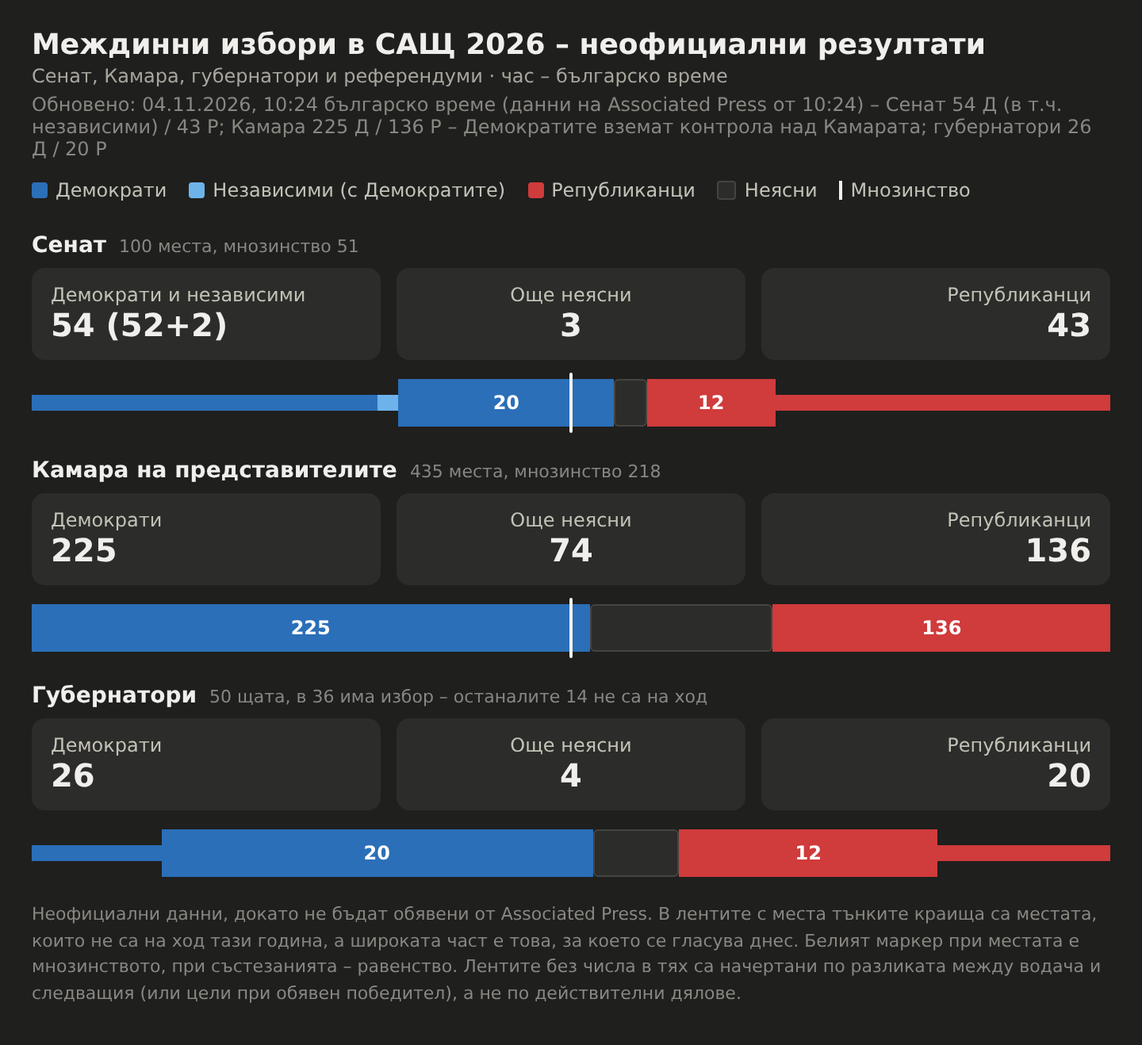
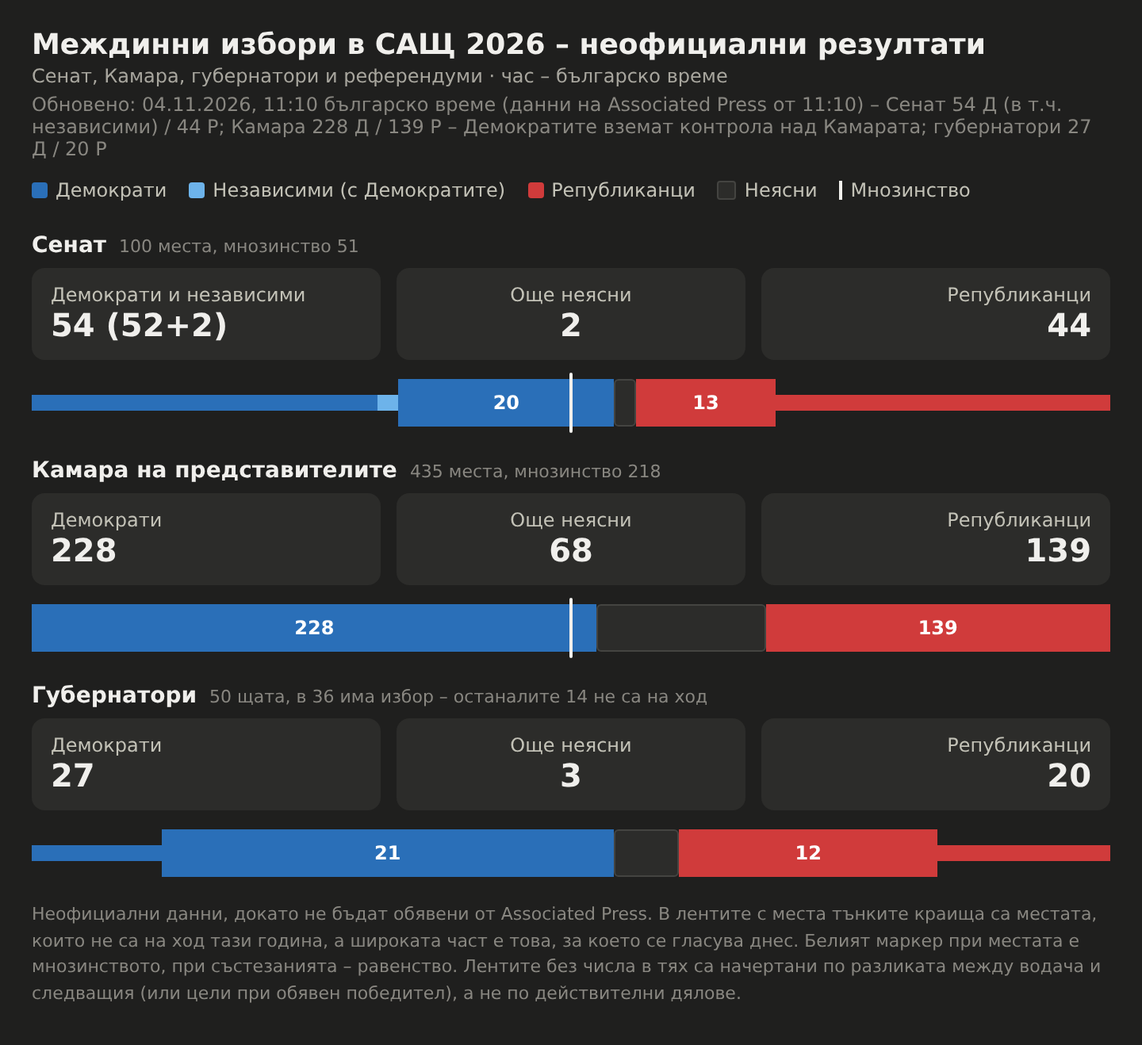
Обновяване 11:10 българско време: Сенат 54–44, Камара 228–139, губернатори 27–20
Claude-Session: https://claude.ai/code/session_013Bd4dyDeBGD9vdxVJ9tN9V

diff --git a/us-midterms-2026.11.03.html b/us-midterms-2026.11.03.html
@@ -53,13 +53,13 @@ h1{font-size:18px;font-weight:600;margin:0 0 2px}
 .empty{font-size:13px;color:var(--text-muted);padding:10px 0}
 .foot{font-size:11px;color:var(--text-muted);margin-top:16px;line-height:1.5}
 </style></head><body><div class="wrap">
-<h1>Междинни избори в САЩ 2026 – неофициални резултати</h1><div class="sub">Сенат, Камара, губернатори и референдуми · час – българско време</div><div class="upd">Обновено: 04.11.2026, 10:24 българско време (данни на Associated Press от 10:24) – Сенат 54 Д (в т.ч. независими) / 43 Р; Камара 225 Д / 136 Р – Демократите вземат контрола над Камарата; губернатори 26 Д / 20 Р</div>
+<h1>Междинни избори в САЩ 2026 – неофициални резултати</h1><div class="sub">Сенат, Камара, губернатори и референдуми · час – българско време</div><div class="upd">Обновено: 04.11.2026, 11:10 българско време (данни на Associated Press от 11:10) – Сенат 54 Д (в т.ч. независими) / 44 Р; Камара 228 Д / 139 Р – Демократите вземат контрола над Камарата; губернатори 27 Д / 20 Р</div>
 <div class="tabs" id="tabs"></div>
 <div id="view"></div>
 <div class="foot">Неофициални данни, докато не бъдат обявени от Associated Press. В лентите с места тънките краища са местата, които не са на ход тази година, а широката част е това, за което се гласува днес. Белият маркер при местата е мнозинството, при състезанията – равенство. Лентите без числа в тях са начертани по разликата между водача и следващия (или цели при обявен победител), а не по действителни дялове. Щракни на ред, за да видиш как се е променял или кои са окръзите на щата.</div>
 </div>
 <script>
-var DATA={"title": "Междинни избори в САЩ 2026 – неофициални резултати", "sub": "Сенат, Камара, губернатори и референдуми · час – българско време", "updated": "04.11.2026, 10:24 българско време (данни на Associated Press от 10:24) – Сенат 54 Д (в т.ч. независими) / 43 Р; Камара 225 Д / 136 Р – Демократите вземат контрола над Камарата; губернатори 26 Д / 20 Р", "times": ["01:30", "02:00", "02:15", "02:30", "03:30", "03:45", "04:05", "04:15", "04:20", "04:27", "05:03", "05:34", "06:08", "06:13", "06:25", "06:42", "07:08", "07:49", "08:10", "09:14", "10:24"], "chambers": {"sen": {"tot": 100, "mj": 51, "d": [32, 32, 33, 33, 41, 41, 43, 43, 43, 43, 43, 43, 46, 47, 48, 49, 50, 50, 51, 51, 52], "i": [2, 2, 2, 2, 2, 2, 2, 2, 2, 2, 2, 2, 2, 2, 2, 2, 2, 2, 2, 2, 2], "r": [31, 31, 31, 31, 31, 32, 34, 34, 35, 35, 36, 36, 37, 37, 38, 39, 40, 41, 41, 42, 43], "base": {"d": 32, "i": 2, "r": 31}}, "hou": {"tot": 435, "mj": 218, "d": [0, 0, 3, 6, 36, 44, 60, 71, 73, 79, 102, 120, 144, 145, 152, 161, 190, 204, 210, 224, 225], "i": [0, 0, 0, 0, 0, 0, 0, 0, 0, 0, 0, 0, 0, 0, 0, 0, 0, 0, 0, 0, 0], "r": [0, 0, 1, 2, 16, 21, 29, 31, 35, 41, 58, 67, 88, 92, 95, 100, 110, 123, 126, 133, 136], "base": {"d": 0, "i": 0, "r": 0}}, "gov": {"tot": 50, "d": [6, 6, 6, 6, 11, 11, 13, 13, 14, 15, 15, 15, 18, 19, 20, 22, 24, 24, 24, 25, 26], "i": [], "r": [8, 8, 8, 8, 8, 8, 9, 10, 10, 10, 10, 10, 11, 11, 11, 11, 13, 18, 18, 19, 20], "base": {"d": 6, "i": 0, "r": 8}}}, "senate": [["Върджиния", 100, 0, null, "<b>Обявен:</b> Демократи (Уорнър)", 1, [], 1], ["Северна Каролина", 100, 0, null, "<b>Обявен:</b> Демократи (Купър; място, което сега е на Републиканците)", 1, [], 1], ["Ню Хемпшър", 100, 0, null, "<b>Обявен:</b> Демократи (Папас)", 1, [], 1], ["Флорида", 0, 100, null, "<b>Обявена:</b> Републиканци (Муди, специален избор)", 1, [], 1], ["Кентъки", 0, 100, null, "<b>Обявен:</b> Републиканци (Бар)", 1, [], 1], ["Колорадо", 100, 0, null, "<b>Обявен:</b> Демократи (Хикенлупър)", 1, [], 1], ["Ню Мексико", 100, 0, null, "<b>Обявен:</b> Демократи (Лухан)", 1, [], 1], ["Уайоминг", 0, 100, null, "<b>Обявена:</b> Републиканци (Хагеман)", 1, [], 1], ["Джорджия", 100, 0, null, "<b>Обявен:</b> Демократи (Ософ; запазва мястото си, Колинс (Р) призна поражението)", 1, []], ["Южна Каролина", 100, 0, null, "<b>Обявена:</b> Демократи (Андрюс; място, което сега е на Републиканците)", 1, [], 1], ["Охайо", 100, 0, null, "<b>Обявен:</b> Демократи (Браун, специален избор; място, което сега е на Републиканците)", 1, [], 1], ["Тексас", 100, 0, null, "<b>Обявен:</b> Демократи (Таларико; място, което сега е на Републиканците)", 1, [], 1], ["Канзас", 100, 0, null, "<b>Обявен:</b> Демократи (Хамилтън; място, което сега е на Републиканците)", 1, [], 1], ["Мичиган", 100, 0, null, "<b>Обявен:</b> Демократи (Ел-Саид; запазва демократичното място)", 1, [], 1], ["Мейн", 100, 0, null, "<b>Обявен:</b> Демократи (Джаксън; място, което сега е на Републиканците – Колинс)", 1, [], 1], ["Айова", 100, 0, null, "<b>Обявен:</b> Демократи (Турек; място, което сега е на Републиканците) – с него Демократите вземат контрола над Сената", 1, [], 1], ["Орегон", 100, 0, null, "<b>Обявен:</b> Демократи (Мъркли)", 1, [], 1], ["Алабама", 0, 100, null, "<b>Обявена:</b> Републиканци (Мур)", 1, [], 1], ["Тенеси", 0, 100, null, "<b>Обявен:</b> Републиканци (Хагърти)", 1, [], 1], ["Минесота", 100, 0, null, "<b>Обявена:</b> Демократи (Фланаган)", 1, [], 1], ["Южна Дакота", 0, 100, null, "<b>Обявена:</b> Републиканци (Раундс)", 1, [], 1], ["Аляска", 49.4, 50.6, 66, "Води: Републиканци (Съливан, +1,2 пункта) – водачът се смени, Пелтола (Д) води на по-ранен етап", 0, [], 1], ["Айдахо", 0, 100, null, "<b>Обявен:</b> Републиканци (Риш)", 1, [], 1], ["Монтана", 0, 100, null, "<b>Обявен:</b> Републиканци (Алми)", 1, [], 1]], "gov": [["Роуд Айлънд", 100, 0, null, "<b>Обявена:</b> Демократи (Фулкс)", 1, [], 1], ["Колорадо", 100, 0, null, "<b>Обявен:</b> Демократи (Уайзър)", 1, [], 1], ["Ню Йорк", 100, 0, null, "<b>Обявена:</b> Демократи (Хокъл)", 1, [], 1], ["Уайоминг", 0, 100, null, "<b>Обявен:</b> Републиканци (Барлоу)", 1, [], 1], ["Флорида", 0, 100, null, "<b>Обявен:</b> Републиканци (Доналдс)", 1, [], 1], ["Кънектикът", 100, 0, null, "<b>Обявен:</b> Демократи (Ламонт)", 1, [], 1], ["Джорджия", 100, 0, null, "<b>Обявена:</b> Демократи (Ботъмс; място, което сега е на Републиканците)", 1, [], 1], ["Калифорния", 100, 0, null, "<b>Обявен:</b> Демократи (Бесера)", 1, [], 1], ["Айова", 100, 0, null, "<b>Обявен:</b> Демократи (Санд; място, което сега е на Републиканците)", 1, [], 1], ["Тексас", 100, 0, null, "<b>Обявена:</b> Демократи (Инохоса; място, което сега е на Републиканците)", 1, [], 1], ["Мейн", 100, 0, null, "<b>Обявена:</b> Демократи (Хана Пингри)", 1, [], 1], ["Уисконсин", 100, 0, null, "<b>Обявен:</b> Демократи (Краули)", 1, [], 1], ["Минесота", 100, 0, null, "<b>Обявен:</b> Демократи (Клобучар)", 1, [], 1], ["Хаваи", 100, 0, null, "<b>Обявен:</b> Демократи (Грийн)", 1, [], 1], ["Охайо", 100, 0, null, "<b>Обявен:</b> Демократи (смяна от Републиканци – по данни на Associated Press, видяно от потребителя; името на победителя не е проверено)", 1, [], 1], ["Тенеси", 0, 100, null, "<b>Обявен:</b> Републиканци (Блекбърн)", 1, [], 1], ["Ню Хемпшър", 0, 100, null, "<b>Обявен:</b> Републиканци (Айът)", 1, [], 1], ["Айдахо", 0, 100, null, "<b>Обявен:</b> Републиканци (Литъл)", 1, [], 1], ["Южна Каролина", 0, 100, null, "<b>Обявен:</b> Републиканци (Уилсън)", 1, [], 1], ["Върмонт", 0, 100, null, "<b>Обявен:</b> Републиканци (Скот)", 1, [], 1], ["Мичиган", 100, 0, null, "<b>Обявена:</b> Демократи (Бенсън)", 1, [], 1], ["Алабама", 0, 100, null, "<b>Обявен:</b> Републиканци (Тъбървил)", 1, [], 1], ["Аризона", 100, 0, null, "<b>Обявена:</b> Демократи (Хобс)", 1, [], 1], ["Небраска", 0, 100, null, "<b>Обявен:</b> Републиканци (Пилън)", 1, [], 1]], "housecontested": [["Вирджиния 1", 49.5, 50.2, 80, "Води: Републиканци", 0, []], ["Флорида 7", 49.1, 49.8, 98, "Води: Републиканци", 0, []], ["Флорида 9", 50.2, 49.8, 99, "Води: Демократи", 0, []], ["Флорида 13", 48.6, 49.5, 99, "Води: Републиканци", 0, []], ["Флорида 27", 49.8, 50.2, 95, "Води: Републиканци", 0, []], ["Вирджиния 5", 49.5, 48.8, 71, "Води: Демократи", 0, []], ["Северна Каролина 9", 51, 49, 89, "Води: Демократи", 0, []], ["Индиана 5", 52, 48, 88, "Води: Демократи", 0, []], ["Флорида 22", 52, 48, 99, "Води: Демократи", 0, []], ["Кентъки 6", 53, 43, 74, "Води: Демократи", 0, []], ["Мичиган 10", 51, 47, 11, "Води: Демократи", 0, []], ["Айова 2", 47.8, 48.7, 1, "Води: Републиканци", 0, []], ["Охайо 7", 59, 41, 43, "Води: Демократи", 0, []], ["Пенсилвания 1", 66, 34, 28, "Води: Демократи", 0, []], ["Тексас 35", 66, 34, 44, "Води: Демократи", 0, []], ["Ню Йорк 17", 57, 43, 2, "Води: Демократи", 0, []], ["Алабама 2", 38, 62, 8, "Води: Републиканци", 0, []], ["Мичиган 4", 27, 71, 1, "Води: Републиканци", 0, []]], "housestates": [], "measures": [["Мисури – Поправка 3 (аборти)", 43.7, 56.3, 73.2, "Води: Против", 0, [], 0, "Предложена поправка в конституцията на Мисури. Тя отменя правото на аборт до жизнеспособността на плода и позволява аборт само при медицинска спешност, аномалия на плода, или при изнасилване или кръвосмешение до 12-ата седмица от бременността. Забранява и лечения и операции за смяна на пола при непълнолетни."], ["Върджиния – Въпрос 1 (репродуктивни права)", 61.4, 38.6, 85.5, "Води: За", 0, [], 0, "Предложена поправка в конституцията на Върджиния. Тя създава репродуктивни права, включително право на аборт, на контрацепция и на грижи за плодовитостта. Абортът може да се регулира през третия триместър, но трябва да бъде разрешен, за да се защити животът или здравето на бременната жена или когато плодът не е жизнеспособен."], ["Върджиния – Въпрос 2 (брак)", 56.2, 43.8, 69.8, "Води: За", 0, [], 0, "Предложена поправка в конституцията на Върджиния. Тя отменя ограничението бракът да е само между мъж и жена и вместо това заявява, че на двама възрастни не може да се отказва брак заради пол, полова идентичност или раса."], ["Върджиния – Въпрос 3 (право на глас)", 55.4, 44.6, 85.7, "Води: За", 0, [], 0, "Предложена поправка в конституцията на Върджиния. Тя създава основно право да се гласува и възстановява отнетите избирателни права на осъдени за тежки престъпления, след като бъдат освободени от затвора."], ["Мисури – Предложение A (нови окръзи за Камарата)", 37.6, 62.4, 71.7, "Води: Против", 0, [], 0, "Референдум, в който гласоподавателите в Мисури решават дали да се приемат новите окръзи за Камарата на представителите на САЩ, приети от законодателите на щата през 2025 г."], ["Мериленд – Въпрос 3 (окръзи за Конгреса)", 60.0, 40.0, 62, "Води: За", 0, [], 0, "Предложена поправка в конституцията на Мериленд. Тя премахва ограниченията при прекрояването на окръзите за Конгреса. Изискването окръзите да са компактни и да уважават „природните граници“ ще важи само за окръзите на законодателния орган на щата, а не за окръзите за Конгреса."], ["Охайо – Въпрос 3 (документ със снимка)", 66.0, 34.0, 79.8, "Води: За", 0, [], 0, "Предложена поправка в конституцията на Охайо. Тя изисква държавен документ със снимка, за да се гласува лично, с изключение за религиозни убеждения. Който гласува по друг начин, трябва да представи или документ със снимка, или номер на държавен документ за самоличност."], ["Северна Каролина – Поправка SB 921 (документ със снимка)", 59.7, 40.3, 95.6, "Води: За", 0, [], 0, "Предложена поправка в конституцията на Северна Каролина. Тя изисква документ със снимка, за да се гласува по какъвто и да е начин, а не само когато се гласува лично."], ["Канзас – Поправка 1 (неграждани)", 61.3, 38.7, 73.3, "Води: За", 0, [], 0, "Предложена поправка в конституцията на Канзас. Тя забранява на неграждани да гласуват на избори."], ["Масачузетс – Въпрос 3 (отворени първични избори)", 38.6, 61.4, 24.6, "Води: Против", 0, [], 0, "Мярката премахва отделните първични избори на партиите и въвежда отворени първични избори, в които двамата с най-много гласове преминават към общите избори. Изисква и кандидатите за губернатор да бъдат в двойка с кандидат за заместник-губернатор в първичните избори."], ["Масачузетс – Въпрос 8 (марихуана)", 20.4, 79.6, 4.5, "Води: Против", 0, [], 0, "Мярката отменя законите, които позволяват законна продажба на марихуана за развлекателни цели, но не налага наказателни санкции за притежание на по-малко от две унции. Медицинската марихуана остава законна."], ["Колорадо – Поправка 81 (имиграция)", 44.2, 55.8, 62.3, "Води: Против", 0, [], 0, "Предложена поправка в конституцията на Колорадо. Тя изисква служителите на реда да уведомяват Министерството на вътрешната сигурност на САЩ, когато обвиняват хора в тежки престъпления или, при хора с предишни присъди за тежки престъпления, в което и да е престъпление, ако може да са в САЩ незаконно."], ["Колорадо – Предложение 135 (непълнолетни и смяна на пола)", 51.05, 48.95, 62, "Води: За", 0, [], 0, "Мярката забранява операции за промяна на половите белези на непълнолетни в отговор на възприеманата полова идентичност или пол на детето. Забранява и държавно финансиране за такива операции."], ["Тенеси – Поправка 2 (данъци върху имоти)", 66.2, 33.8, 71.6, "Води: За", 0, [], 0, "Предложена поправка в конституцията на Тенеси. Тя забранява на щата да налага данъци върху имоти."], ["Северна Дакота – Мярка 2 (безплатни училищни обяди)", 44.6, 55.4, 11.3, "Води: Против", 0, [], 0, "Предложена поправка в конституцията на Северна Дакота. Тя изисква държавните училища да осигуряват безплатна закуска и обяд на всички ученици."], ["Арканзас – Въпрос 1 (неграждани)", 68.2, 31.8, 75.3, "Води: За", 0, [], 1, "Предложена поправка в конституцията на Арканзас. Тя заявява, че само граждани могат да гласуват на избори на щата и местни избори."], ["Аризона – Предложение 144 (неграждани и документ за самоличност)", 43.0, 57.0, 66.9, "Води: Против", 0, [], 1, "Предложена поправка в конституцията на Аризона. Тя забранява на неграждани да гласуват, изисква държавен документ за самоличност за гласуване и забранява чужди вноски и разходи в изборите."], ["Масачузетс – Въпрос 4 (регистрация в деня на изборите)", 59.5, 40.5, 23, "Води: За", 0, [], 1, "Мярката позволява регистрация за гласуване в избирателните секции в деня на изборите и отменя изискването за регистрация поне 10 дни преди изборите."], ["Северна Дакота – Мярка 1 (60% за поправки)", 44.2, 55.8, 60.1, "Води: Против", 0, [], 1, "Предложена поправка в конституцията на Северна Дакота. Тя изисква 60% подкрепа от гласоподавателите, за да се приемат бъдещи поправки в конституцията."], ["Южна Дакота – Поправка L (60% за поправки)", 42.4, 57.6, 24, "Води: Против", 0, [], 1, "Предложена поправка в конституцията на Южна Дакота. Тя изисква 60% подкрепа от гласоподавателите, за да се приемат бъдещи поправки в конституцията."]], "foot": "Неофициални данни, докато не бъдат обявени от Associated Press. В лентите с места тънките краища са местата, които не са на ход тази година, а широката част е това, за което се гласува днес. Белият маркер при местата е мнозинството, при състезанията – равенство. Лентите без числа в тях са начертани по разликата между водача и следващия (или цели при обявен победител), а не по действителни дялове. Щракни на ред, за да видиш как се е променял или кои са окръзите на щата."};
+var DATA={"title": "Междинни избори в САЩ 2026 – неофициални резултати", "sub": "Сенат, Камара, губернатори и референдуми · час – българско време", "updated": "04.11.2026, 11:10 българско време (данни на Associated Press от 11:10) – Сенат 54 Д (в т.ч. независими) / 44 Р; Камара 228 Д / 139 Р – Демократите вземат контрола над Камарата; губернатори 27 Д / 20 Р", "times": ["01:30", "02:00", "02:15", "02:30", "03:30", "03:45", "04:05", "04:15", "04:20", "04:27", "05:03", "05:34", "06:08", "06:13", "06:25", "06:42", "07:08", "07:49", "08:10", "09:14", "10:24", "11:10"], "chambers": {"sen": {"tot": 100, "mj": 51, "d": [32, 32, 33, 33, 41, 41, 43, 43, 43, 43, 43, 43, 46, 47, 48, 49, 50, 50, 51, 51, 52, 52], "i": [2, 2, 2, 2, 2, 2, 2, 2, 2, 2, 2, 2, 2, 2, 2, 2, 2, 2, 2, 2, 2, 2], "r": [31, 31, 31, 31, 31, 32, 34, 34, 35, 35, 36, 36, 37, 37, 38, 39, 40, 41, 41, 42, 43, 44], "base": {"d": 32, "i": 2, "r": 31}}, "hou": {"tot": 435, "mj": 218, "d": [0, 0, 3, 6, 36, 44, 60, 71, 73, 79, 102, 120, 144, 145, 152, 161, 190, 204, 210, 224, 225, 228], "i": [0, 0, 0, 0, 0, 0, 0, 0, 0, 0, 0, 0, 0, 0, 0, 0, 0, 0, 0, 0, 0, 0], "r": [0, 0, 1, 2, 16, 21, 29, 31, 35, 41, 58, 67, 88, 92, 95, 100, 110, 123, 126, 133, 136, 139], "base": {"d": 0, "i": 0, "r": 0}}, "gov": {"tot": 50, "d": [6, 6, 6, 6, 11, 11, 13, 13, 14, 15, 15, 15, 18, 19, 20, 22, 24, 24, 24, 25, 26, 27], "i": [], "r": [8, 8, 8, 8, 8, 8, 9, 10, 10, 10, 10, 10, 11, 11, 11, 11, 13, 18, 18, 19, 20, 20], "base": {"d": 6, "i": 0, "r": 8}}}, "senate": [["Върджиния", 100, 0, null, "<b>Обявен:</b> Демократи (Уорнър)", 1, [], 1], ["Северна Каролина", 100, 0, null, "<b>Обявен:</b> Демократи (Купър; място, което сега е на Републиканците)", 1, [], 1], ["Ню Хемпшър", 100, 0, null, "<b>Обявен:</b> Демократи (Папас)", 1, [], 1], ["Флорида", 0, 100, null, "<b>Обявена:</b> Републиканци (Муди, специален избор)", 1, [], 1], ["Кентъки", 0, 100, null, "<b>Обявен:</b> Републиканци (Бар)", 1, [], 1], ["Колорадо", 100, 0, null, "<b>Обявен:</b> Демократи (Хикенлупър)", 1, [], 1], ["Ню Мексико", 100, 0, null, "<b>Обявен:</b> Демократи (Лухан)", 1, [], 1], ["Уайоминг", 0, 100, null, "<b>Обявена:</b> Републиканци (Хагеман)", 1, [], 1], ["Джорджия", 100, 0, null, "<b>Обявен:</b> Демократи (Ософ; запазва мястото си, Колинс (Р) призна поражението)", 1, []], ["Южна Каролина", 100, 0, null, "<b>Обявена:</b> Демократи (Андрюс; място, което сега е на Републиканците)", 1, [], 1], ["Охайо", 100, 0, null, "<b>Обявен:</b> Демократи (Браун, специален избор; място, което сега е на Републиканците)", 1, [], 1], ["Тексас", 100, 0, null, "<b>Обявен:</b> Демократи (Таларико; място, което сега е на Републиканците)", 1, [], 1], ["Канзас", 100, 0, null, "<b>Обявен:</b> Демократи (Хамилтън; място, което сега е на Републиканците)", 1, [], 1], ["Мичиган", 100, 0, null, "<b>Обявен:</b> Демократи (Ел-Саид; запазва демократичното място)", 1, [], 1], ["Мейн", 100, 0, null, "<b>Обявен:</b> Демократи (Джаксън; място, което сега е на Републиканците – Колинс)", 1, [], 1], ["Айова", 100, 0, null, "<b>Обявен:</b> Демократи (Турек; място, което сега е на Републиканците) – с него Демократите вземат контрола над Сената", 1, [], 1], ["Орегон", 100, 0, null, "<b>Обявен:</b> Демократи (Мъркли)", 1, [], 1], ["Алабама", 0, 100, null, "<b>Обявена:</b> Републиканци (Мур)", 1, [], 1], ["Тенеси", 0, 100, null, "<b>Обявен:</b> Републиканци (Хагърти)", 1, [], 1], ["Минесота", 100, 0, null, "<b>Обявена:</b> Демократи (Фланаган)", 1, [], 1], ["Южна Дакота", 0, 100, null, "<b>Обявена:</b> Републиканци (Раундс)", 1, [], 1], ["Аляска", 49.75, 50.25, 68, "Води: Републиканци (Съливан, под 1 пункт) – още не е обявено", 0, [], 1], ["Айдахо", 0, 100, null, "<b>Обявен:</b> Републиканци (Риш)", 1, [], 1], ["Монтана", 0, 100, null, "<b>Обявен:</b> Републиканци (Алми)", 1, [], 1], ["Небраска", 0, 100, null, "<b>Обявен:</b> Републиканци (Рикетс)", 1, [], 1]], "gov": [["Роуд Айлънд", 100, 0, null, "<b>Обявена:</b> Демократи (Фулкс)", 1, [], 1], ["Колорадо", 100, 0, null, "<b>Обявен:</b> Демократи (Уайзър)", 1, [], 1], ["Ню Йорк", 100, 0, null, "<b>Обявена:</b> Демократи (Хокъл)", 1, [], 1], ["Уайоминг", 0, 100, null, "<b>Обявен:</b> Републиканци (Барлоу)", 1, [], 1], ["Флорида", 0, 100, null, "<b>Обявен:</b> Републиканци (Доналдс)", 1, [], 1], ["Кънектикът", 100, 0, null, "<b>Обявен:</b> Демократи (Ламонт)", 1, [], 1], ["Джорджия", 100, 0, null, "<b>Обявена:</b> Демократи (Ботъмс; място, което сега е на Републиканците)", 1, [], 1], ["Калифорния", 100, 0, null, "<b>Обявен:</b> Демократи (Бесера)", 1, [], 1], ["Айова", 100, 0, null, "<b>Обявен:</b> Демократи (Санд; място, което сега е на Републиканците)", 1, [], 1], ["Тексас", 100, 0, null, "<b>Обявена:</b> Демократи (Инохоса; място, което сега е на Републиканците)", 1, [], 1], ["Мейн", 100, 0, null, "<b>Обявена:</b> Демократи (Хана Пингри)", 1, [], 1], ["Уисконсин", 100, 0, null, "<b>Обявен:</b> Демократи (Краули)", 1, [], 1], ["Минесота", 100, 0, null, "<b>Обявен:</b> Демократи (Клобучар)", 1, [], 1], ["Хаваи", 100, 0, null, "<b>Обявен:</b> Демократи (Грийн)", 1, [], 1], ["Охайо", 100, 0, null, "<b>Обявен:</b> Демократи (смяна от Републиканци – по данни на Associated Press, видяно от потребителя; името на победителя не е проверено)", 1, [], 1], ["Тенеси", 0, 100, null, "<b>Обявен:</b> Републиканци (Блекбърн)", 1, [], 1], ["Ню Хемпшър", 0, 100, null, "<b>Обявен:</b> Републиканци (Айът)", 1, [], 1], ["Айдахо", 0, 100, null, "<b>Обявен:</b> Републиканци (Литъл)", 1, [], 1], ["Южна Каролина", 0, 100, null, "<b>Обявен:</b> Републиканци (Уилсън)", 1, [], 1], ["Върмонт", 0, 100, null, "<b>Обявен:</b> Републиканци (Скот)", 1, [], 1], ["Мичиган", 100, 0, null, "<b>Обявена:</b> Демократи (Бенсън)", 1, [], 1], ["Алабама", 0, 100, null, "<b>Обявен:</b> Републиканци (Тъбървил)", 1, [], 1], ["Аризона", 100, 0, null, "<b>Обявена:</b> Демократи (Хобс)", 1, [], 1], ["Небраска", 0, 100, null, "<b>Обявен:</b> Републиканци (Пилън)", 1, [], 1], ["Орегон", 100, 0, null, "<b>Обявена:</b> Демократи (Котек)", 1, [], 1]], "housecontested": [["Вирджиния 1", 49.5, 50.2, 80, "Води: Републиканци", 0, []], ["Флорида 7", 49.1, 49.8, 98, "Води: Републиканци", 0, []], ["Флорида 9", 50.2, 49.8, 99, "Води: Демократи", 0, []], ["Флорида 13", 48.6, 49.5, 99, "Води: Републиканци", 0, []], ["Флорида 27", 49.8, 50.2, 95, "Води: Републиканци", 0, []], ["Вирджиния 5", 49.5, 48.8, 71, "Води: Демократи", 0, []], ["Северна Каролина 9", 51, 49, 89, "Води: Демократи", 0, []], ["Индиана 5", 52, 48, 88, "Води: Демократи", 0, []], ["Флорида 22", 52, 48, 99, "Води: Демократи", 0, []], ["Кентъки 6", 53, 43, 74, "Води: Демократи", 0, []], ["Мичиган 10", 51, 47, 11, "Води: Демократи", 0, []], ["Айова 2", 47.8, 48.7, 1, "Води: Републиканци", 0, []], ["Охайо 7", 59, 41, 43, "Води: Демократи", 0, []], ["Пенсилвания 1", 66, 34, 28, "Води: Демократи", 0, []], ["Тексас 35", 66, 34, 44, "Води: Демократи", 0, []], ["Ню Йорк 17", 57, 43, 2, "Води: Демократи", 0, []], ["Алабама 2", 38, 62, 8, "Води: Републиканци", 0, []], ["Мичиган 4", 27, 71, 1, "Води: Републиканци", 0, []]], "housestates": [], "measures": [["Мисури – Поправка 3 (аборти)", 43.7, 56.3, 73.2, "Води: Против", 0, [], 0, "Предложена поправка в конституцията на Мисури. Тя отменя правото на аборт до жизнеспособността на плода и позволява аборт само при медицинска спешност, аномалия на плода, или при изнасилване или кръвосмешение до 12-ата седмица от бременността. Забранява и лечения и операции за смяна на пола при непълнолетни."], ["Върджиния – Въпрос 1 (репродуктивни права)", 61.4, 38.6, 85.5, "Води: За", 0, [], 0, "Предложена поправка в конституцията на Върджиния. Тя създава репродуктивни права, включително право на аборт, на контрацепция и на грижи за плодовитостта. Абортът може да се регулира през третия триместър, но трябва да бъде разрешен, за да се защити животът или здравето на бременната жена или когато плодът не е жизнеспособен."], ["Върджиния – Въпрос 2 (брак)", 56.2, 43.8, 69.8, "Води: За", 0, [], 0, "Предложена поправка в конституцията на Върджиния. Тя отменя ограничението бракът да е само между мъж и жена и вместо това заявява, че на двама възрастни не може да се отказва брак заради пол, полова идентичност или раса."], ["Върджиния – Въпрос 3 (право на глас)", 55.4, 44.6, 85.7, "Води: За", 0, [], 0, "Предложена поправка в конституцията на Върджиния. Тя създава основно право да се гласува и възстановява отнетите избирателни права на осъдени за тежки престъпления, след като бъдат освободени от затвора."], ["Мисури – Предложение A (нови окръзи за Камарата)", 37.6, 62.4, 71.7, "Води: Против", 0, [], 0, "Референдум, в който гласоподавателите в Мисури решават дали да се приемат новите окръзи за Камарата на представителите на САЩ, приети от законодателите на щата през 2025 г."], ["Мериленд – Въпрос 3 (окръзи за Конгреса)", 60.0, 40.0, 62, "Води: За", 0, [], 0, "Предложена поправка в конституцията на Мериленд. Тя премахва ограниченията при прекрояването на окръзите за Конгреса. Изискването окръзите да са компактни и да уважават „природните граници“ ще важи само за окръзите на законодателния орган на щата, а не за окръзите за Конгреса."], ["Охайо – Въпрос 3 (документ със снимка)", 66.0, 34.0, 79.8, "Води: За", 0, [], 0, "Предложена поправка в конституцията на Охайо. Тя изисква държавен документ със снимка, за да се гласува лично, с изключение за религиозни убеждения. Който гласува по друг начин, трябва да представи или документ със снимка, или номер на държавен документ за самоличност."], ["Северна Каролина – Поправка SB 921 (документ със снимка)", 59.7, 40.3, 95.6, "Води: За", 0, [], 0, "Предложена поправка в конституцията на Северна Каролина. Тя изисква документ със снимка, за да се гласува по какъвто и да е начин, а не само когато се гласува лично."], ["Канзас – Поправка 1 (неграждани)", 61.3, 38.7, 73.3, "Води: За", 0, [], 0, "Предложена поправка в конституцията на Канзас. Тя забранява на неграждани да гласуват на избори."], ["Масачузетс – Въпрос 3 (отворени първични избори)", 38.6, 61.4, 24.6, "Води: Против", 0, [], 0, "Мярката премахва отделните първични избори на партиите и въвежда отворени първични избори, в които двамата с най-много гласове преминават към общите избори. Изисква и кандидатите за губернатор да бъдат в двойка с кандидат за заместник-губернатор в първичните избори."], ["Масачузетс – Въпрос 8 (марихуана)", 20.4, 79.6, 4.5, "Води: Против", 0, [], 0, "Мярката отменя законите, които позволяват законна продажба на марихуана за развлекателни цели, но не налага наказателни санкции за притежание на по-малко от две унции. Медицинската марихуана остава законна."], ["Колорадо – Поправка 81 (имиграция)", 44.2, 55.8, 62.3, "Води: Против", 0, [], 0, "Предложена поправка в конституцията на Колорадо. Тя изисква служителите на реда да уведомяват Министерството на вътрешната сигурност на САЩ, когато обвиняват хора в тежки престъпления или, при хора с предишни присъди за тежки престъпления, в което и да е престъпление, ако може да са в САЩ незаконно."], ["Колорадо – Предложение 135 (непълнолетни и смяна на пола)", 51.05, 48.95, 62, "Води: За", 0, [], 0, "Мярката забранява операции за промяна на половите белези на непълнолетни в отговор на възприеманата полова идентичност или пол на детето. Забранява и държавно финансиране за такива операции."], ["Тенеси – Поправка 2 (данъци върху имоти)", 66.2, 33.8, 71.6, "Води: За", 0, [], 0, "Предложена поправка в конституцията на Тенеси. Тя забранява на щата да налага данъци върху имоти."], ["Северна Дакота – Мярка 2 (безплатни училищни обяди)", 44.6, 55.4, 11.3, "Води: Против", 0, [], 0, "Предложена поправка в конституцията на Северна Дакота. Тя изисква държавните училища да осигуряват безплатна закуска и обяд на всички ученици."], ["Арканзас – Въпрос 1 (неграждани)", 68.2, 31.8, 75.3, "Води: За", 0, [], 1, "Предложена поправка в конституцията на Арканзас. Тя заявява, че само граждани могат да гласуват на избори на щата и местни избори."], ["Аризона – Предложение 144 (неграждани и документ за самоличност)", 43.0, 57.0, 66.9, "Води: Против", 0, [], 1, "Предложена поправка в конституцията на Аризона. Тя забранява на неграждани да гласуват, изисква държавен документ за самоличност за гласуване и забранява чужди вноски и разходи в изборите."], ["Масачузетс – Въпрос 4 (регистрация в деня на изборите)", 59.5, 40.5, 23, "Води: За", 0, [], 1, "Мярката позволява регистрация за гласуване в избирателните секции в деня на изборите и отменя изискването за регистрация поне 10 дни преди изборите."], ["Северна Дакота – Мярка 1 (60% за поправки)", 44.2, 55.8, 60.1, "Води: Против", 0, [], 1, "Предложена поправка в конституцията на Северна Дакота. Тя изисква 60% подкрепа от гласоподавателите, за да се приемат бъдещи поправки в конституцията."], ["Южна Дакота – Поправка L (60% за поправки)", 42.4, 57.6, 24, "Води: Против", 0, [], 1, "Предложена поправка в конституцията на Южна Дакота. Тя изисква 60% подкрепа от гласоподавателите, за да се приемат бъдещи поправки в конституцията."]], "foot": "Неофициални данни, докато не бъдат обявени от Associated Press. В лентите с места тънките краища са местата, които не са на ход тази година, а широката част е това, за което се гласува днес. Белият маркер при местата е мнозинството, при състезанията – равенство. Лентите без числа в тях са начертани по разликата между водача и следващия (или цели при обявен победител), а не по действителни дялове. Щракни на ред, за да видиш как се е променял или кои са окръзите на щата."};
 var D='#2a6fb8',I='#6db3ea',R='#d03b3b',Y='#1baf7a',N='#eb6834';
 var f=function(v){return String(Math.round(v*10)/10).replace('.',',')+'%'};
 var leg=function(a,lm){return '<div class="leg">'+a.map(function(x){return '<span><i class="sw" style="background:'+x[0]+(x[2]?';border:1px solid var(--border)':'')+'"></i>'+x[1]+'</span>'}).join('')+'<span><i class="mk"></i>'+lm+'</span></div>'};
